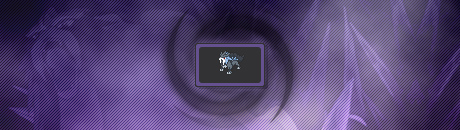
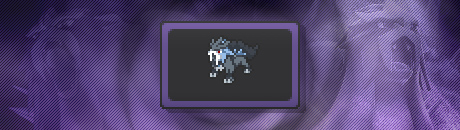
Added unlock messages for shining and final Pokemon
Also adjusted unlock conditions and text for other Pokemon including shadow variants.

diff --git a/scripts/script.js b/scripts/script.js
@@ -1125,7 +1125,7 @@
 
             // Show the UNLOCK DITTO message if it's been unlocked but not shown
             var eventID = 'unlocked-ditto';
-            if (PokeBoxRewards.indexOf('unlocked-ditto') !== -1
+            if (PokeBoxRewards.indexOf('ditto') !== -1
                 && (typeof PokemonSpeciesSeen['ditto'] === 'undefined' || PokemonSpeciesSeen['ditto'] === 0)
                 && seenPopupMessages.indexOf(eventID) === -1){
                 var seenCount = Object.keys(PokemonSpeciesSeen).length;
@@ -1156,7 +1156,7 @@
                 var unlockCount = rewardInfo['count'];
                 var startTokens = rewardInfo['species'];
                 var eventID = 'unlocked-gen'+ genNum +'-starters';
-                if (PokeBoxRewards.indexOf('unlocked-gen'+ genNum +'-starters') !== -1
+                if (PokeBoxRewards.indexOf('gen'+ genNum +'-starters') !== -1
                     && (typeof PokemonSpeciesSeen[startTokens[0]] === 'undefined' || PokemonSpeciesSeen[startTokens[0]] === 0)
                     && (typeof PokemonSpeciesSeen[startTokens[1]] === 'undefined' || PokemonSpeciesSeen[startTokens[1]] === 0)
                     && (typeof PokemonSpeciesSeen[startTokens[2]] === 'undefined' || PokemonSpeciesSeen[startTokens[2]] === 0)
@@ -1181,17 +1181,53 @@
                 var shadowToken = rewardInfo['species'];
                 var unlockCount = rewardInfo['count'];
                 var eventID = 'unlocked-'+ shadowToken;
-                if (PokeBoxRewards.indexOf('unlocked-'+ shadowToken) !== -1
+                if (PokeBoxRewards.indexOf(shadowToken) !== -1
                     && seenPopupMessages.indexOf(eventID) === -1){
                     queuePopupWindow({
                         id: eventID,
                         banner: 'unlocked-'+ shadowToken,
                         buttons: {continue: 'Continue'},
-                        textbox: 'Wow! A <strong>'+ PokemonSpeciesIndex[shadowToken]['name'] +'</strong> has appeared to you!<br />' +
-                            'The Pokémon wants to help you, but for what purpose? <br />' +
-                            '<em>'+ PokemonSpeciesIndex[shadowToken]['buttonQuote'].replace(/Its\s/, 'My ') +'</em>'
+                        textbox: 'Wow! A <strong>'+ PokemonSpeciesIndex[shadowToken]['name'] +'</strong> appeared! <br />' +
+                            '<em class="q s'+shadowNum+' shadow">'+ PokemonSpeciesIndex[shadowToken]['buttonQuote'] +'</em> <br />' +
+                            'Maybe try it in one of your boxes? '
                         });
                     }
+                }
+
+            // Show the UNLOCK SHINING POKEMON message if they've been unlocked but not shown
+            var shiningRewardCount = Object.keys(shiningRewardIndex).length;
+            for (var shiningNum = 1; shiningNum <= shiningRewardCount; shiningNum++){
+                var rewardInfo = shiningRewardIndex[shiningNum];
+                if (typeof rewardInfo === 'undefined'){ continue; }
+                //console.log('shiningRewardIndex['+ shiningNum  +'] = ', rewardInfo);
+                var shiningToken = rewardInfo['species'];
+                var unlockCount = rewardInfo['count'];
+                var eventID = 'unlocked-'+ shiningToken;
+                if (PokeBoxRewards.indexOf(shiningToken) !== -1
+                    && seenPopupMessages.indexOf(eventID) === -1){
+                    queuePopupWindow({
+                        id: eventID,
+                        banner: 'unlocked-'+ shiningToken,
+                        buttons: {continue: 'Continue'},
+                        textbox: 'Amazing! A <strong>'+ PokemonSpeciesIndex[shiningToken]['name'] +'</strong> appeared! <br />' +
+                            '<em class="q s'+shiningNum+' shining">'+ PokemonSpeciesIndex[shiningToken]['buttonQuote'] +'</em> <br />' +
+                            'Try adding it to one of your boxes! '
+                        });
+                    }
+                }
+
+            // Show the UNLOCK ARCEUS message if it has been unlocked but not shown
+            var eventID = 'unlocked-final-pokemon';
+            if (PokeBoxRewards.indexOf('arceus') !== -1
+                && seenPopupMessages.indexOf(eventID) === -1){
+                queuePopupWindow({
+                    id: eventID,
+                    banner: 'unlocked-final-pokemon',
+                    buttons: {continue: 'Continue'},
+                    textbox: 'Oh my! The final Pokémon, <strong>Arceus</strong>, has appeared!! <br />' +
+                        'The Original One has recognized your efforts and decided <br />' +
+                        'to share its powers with you.  Congratulations!! '
+                    });
                 }
 
 
@@ -2556,7 +2592,7 @@
             freeStarterPokemon.push('pikachu', 'eevee'); // special edition starters
 
             // Unlock Ditto if the user has seen at least one other species
-            if (PokeBoxRewards.indexOf('unlocked-ditto') !== -1){ freeStarterPokemon.push('ditto'); }
+            if (PokeBoxRewards.indexOf('ditto') !== -1){ freeStarterPokemon.push('ditto'); }
 
             // Unlock the starters from Gen 1+ automatically and the rest via dex completion
             for (var genNum = 1; genNum <= maxIndexKeyAllowed; genNum++){
@@ -2564,7 +2600,7 @@
                 if (typeof rewardInfo === 'undefined'){ continue; }
                 //console.log('rewardInfo = ', genNum, rewardInfo);
                 var startTokens = rewardInfo['species'];
-                if (PokeBoxRewards.indexOf('unlocked-gen'+ genNum +'-starters') !== -1){
+                if (PokeBoxRewards.indexOf('gen'+ genNum +'-starters') !== -1){
                     freeStarterPokemon.push(startTokens[0], startTokens[1], startTokens[2]);
                     }
                 }
@@ -2575,18 +2611,24 @@
                 var rewardInfo = shadowRewardIndex[shadowNum];
                 if (typeof rewardInfo === 'undefined'){ continue; }
                 //console.log('rewardInfo = ', shadowNum, rewardInfo);
-                if (PokeBoxRewards.indexOf('unlocked-'+ rewardInfo['species']) !== -1){
+                if (PokeBoxRewards.indexOf(rewardInfo['species']) !== -1){
+                    freeStarterPokemon.push(rewardInfo['species']);
+                    }
+                }
+
+            // Unlock shining pokemon automatically and the rest via dex completion
+            var shiningRewardCount = Object.keys(shiningRewardIndex).length;
+            for (var shiningNum = 1; shiningNum <= shiningRewardCount; shiningNum++){
+                var rewardInfo = shiningRewardIndex[shiningNum];
+                if (typeof rewardInfo === 'undefined'){ continue; }
+                //console.log('rewardInfo = ', shiningNum, rewardInfo);
+                if (PokeBoxRewards.indexOf(rewardInfo['species']) !== -1){
                     freeStarterPokemon.push(rewardInfo['species']);
                     }
                 }
 
             // Unlock the final pokemon ARCEUS if the user has encountered every other species
-            if (hasUnlockedFinalPokemon()){ freeStarterPokemon.push('arceus'); }
-
-            // Unlock shining pokemon if promotional passwords have been entered into the simulator
-            if (PokeBoxRewards.indexOf('gold-ho-oh') !== -1){ freeStarterPokemon.push('gold-ho-oh'); }
-            if (PokeBoxRewards.indexOf('silver-suicune') !== -1){ freeStarterPokemon.push('silver-suicune'); }
-            if (PokeBoxRewards.indexOf('crystal-onix') !== -1){ freeStarterPokemon.push('crystal-onix'); }
+            if (PokeBoxRewards.indexOf('arceus') !== -1){ freeStarterPokemon.push('arceus'); }
 
             }
 
@@ -7506,12 +7548,19 @@
         };
 
     // Define the shadow reward index and populate with starter pokemon from each gen
-    var shadowRewardIndex = {
-        1: {species: 'shadow-mewtwo', count: 111},
-        2: {species: 'shadow-lugia', count: 222},
-        3: {species: 'shadow-entei', count: 333},
-        4: {species: 'shadow-celebi', count: 444},
-        5: {species: 'shadow-latios', count: 555}
+    var shadowRewardIndex = { // can only be unlocked via days passed only (right now)
+        1: {species: 'shadow-mewtwo', count: 1000},
+        2: {species: 'shadow-lugia', count: 2000},
+        3: {species: 'shadow-entei', count: 3000},
+        4: {species: 'shadow-celebi', count: 4000},
+        5: {species: 'shadow-latios', count: 5000}
+        };
+
+    // Define the shining reward index and populate with starter pokemon from each gen
+    var shiningRewardIndex = { // can be unlocked via days passed or passwords
+        1: {species: 'gold-ho-oh', count: 6000},
+        2: {species: 'silver-suicune', count: 7000},
+        3: {species: 'crystal-onix', count: 8000}
         };
 
     // Define a function for checking if certain unlocks have been earned
@@ -7521,7 +7570,7 @@
         var seenSpeciesTokens = Object.keys(PokemonSpeciesSeen);
 
         // Unlock Ditto if the user has seen at least one other species
-        if (seenSpeciesTokens.length >= 1 && PokeBoxRewards.indexOf('unlocked-ditto') === -1){ PokeBoxRewards.push('unlocked-ditto'); }
+        if (seenSpeciesTokens.length >= 1 && PokeBoxRewards.indexOf('ditto') === -1){ PokeBoxRewards.push('ditto'); }
 
         // Unlock the starters from Gen 2+ automatically via dex completion (linked to nation dex count as-of prev gen)
         for (var genNum = 1; genNum <= maxIndexKeyAllowed; genNum++){
@@ -7529,8 +7578,8 @@
             if (typeof rewardInfo === 'undefined'){ continue; }
             //console.log('rewardInfo = ', genNum, rewardInfo);
             if (seenSpeciesTokens.length >= rewardInfo['count']
-                && PokeBoxRewards.indexOf('unlocked-gen'+ genNum +'-starters') === -1){
-                PokeBoxRewards.push('unlocked-gen'+ genNum +'-starters');
+                && PokeBoxRewards.indexOf('gen'+ genNum +'-starters') === -1){
+                PokeBoxRewards.push('gen'+ genNum +'-starters');
                 }
             }
 
@@ -7540,11 +7589,26 @@
             var rewardInfo = shadowRewardIndex[shadowNum];
             if (typeof rewardInfo === 'undefined'){ continue; }
             //console.log('rewardInfo = ', shadowNum, rewardInfo);
-            if (seenSpeciesTokens.length >= rewardInfo['count']
-                && PokeBoxRewards.indexOf('unlocked-'+ rewardInfo['species']) === -1){
-                PokeBoxRewards.push('unlocked-'+ rewardInfo['species']);
+            if (PokeboxDaysPassed >= rewardInfo['count']
+                && PokeBoxRewards.indexOf(rewardInfo['species']) === -1){
+                PokeBoxRewards.push(rewardInfo['species']);
                 }
             }
+
+        // Unlock shining pokemon automatically and via dex completion (linked to repeating movie appearance num)
+        var shiningRewardCount = Object.keys(shiningRewardIndex).length;
+        for (var shiningNum = 1; shiningNum <= shiningRewardCount; shiningNum++){
+            var rewardInfo = shiningRewardIndex[shiningNum];
+            if (typeof rewardInfo === 'undefined'){ continue; }
+            //console.log('rewardInfo = ', shiningNum, rewardInfo);
+            if (PokeboxDaysPassed >= rewardInfo['count']
+                && PokeBoxRewards.indexOf(rewardInfo['species']) === -1){
+                PokeBoxRewards.push(rewardInfo['species']);
+                }
+            }
+
+        // Unlock the final pokemon ARCEUS if the user has encountered every other species
+        if (hasUnlockedFinalPokemon() && PokeBoxRewards.indexOf('arceus') === -1){ PokeBoxRewards.push('arceus'); }
 
     }
 

diff --git a/styles/style-master.css b/styles/style-master.css
@@ -2589,6 +2589,17 @@ body[data-speed="slow"] .panel .overview.visitors { transition: max-height 1.00s
     font-weight: bold;
     color: #666666;
 }
+.popup.window > .wrap > .textbox em.q {
+    display: inline-block;
+    color: #808080;
+    padding: 3px 0;
+}
+.popup.window > .wrap > .textbox em.shining {
+    max-width: 80%;
+}
+.popup.window > .wrap > .textbox em.shining.s1 {
+    max-width: 70%;
+}
 
 .popup.window > .wrap > .buttons {
     padding: 0;
